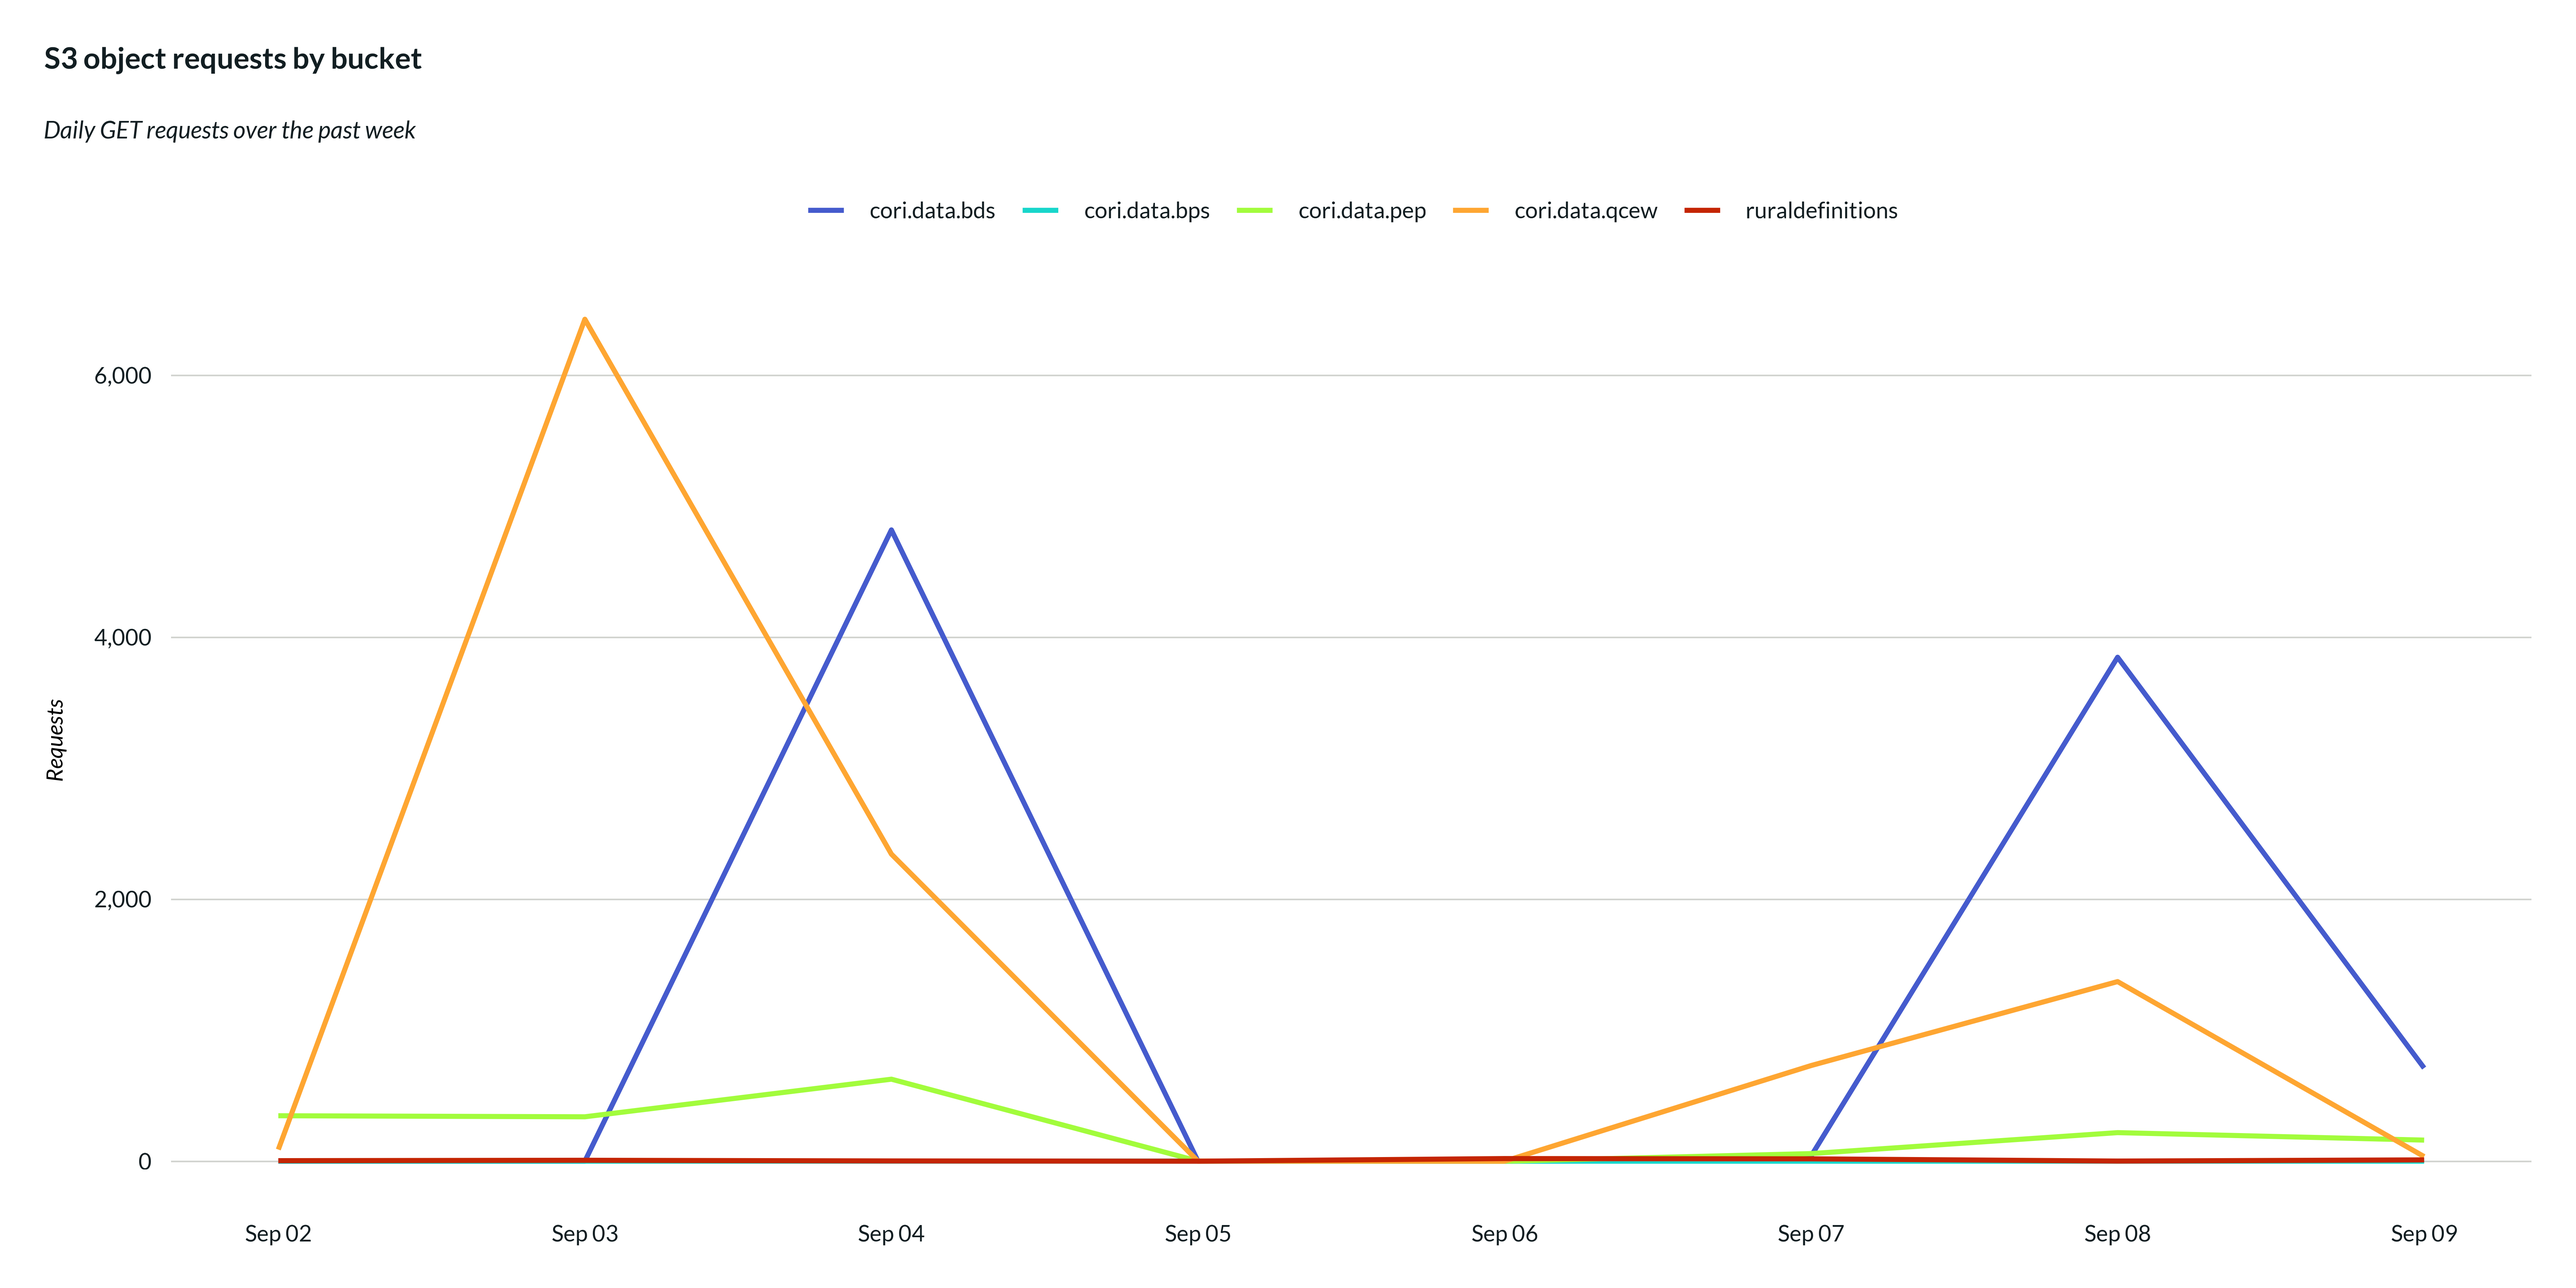
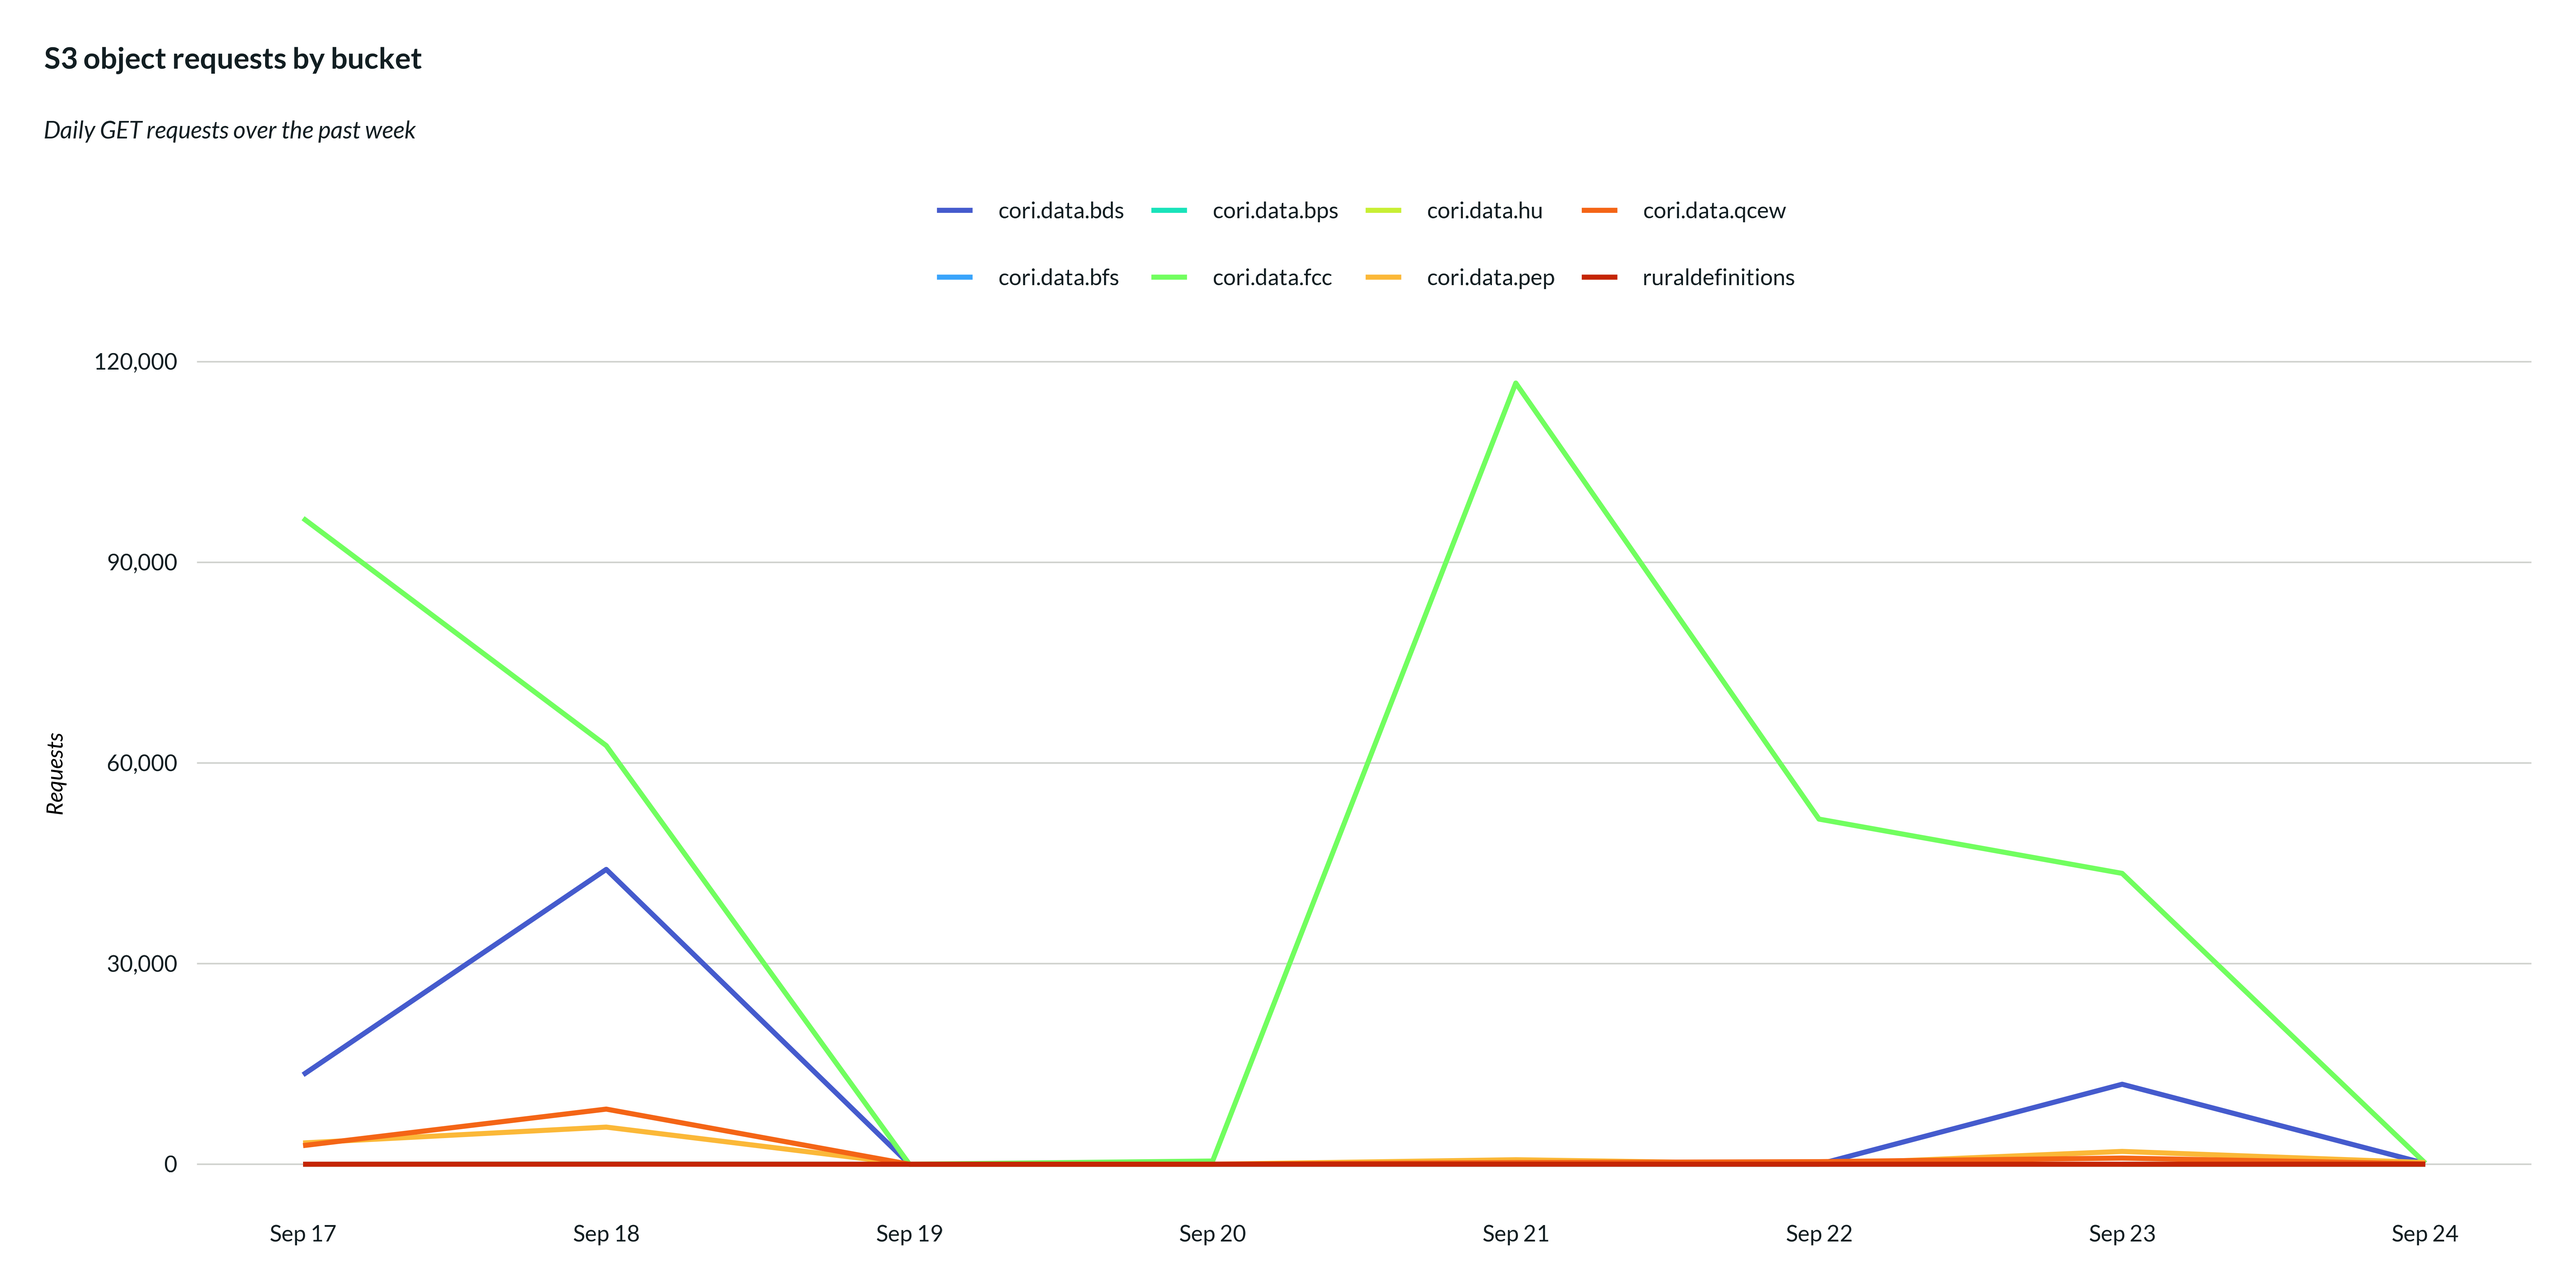
Deploying to gh-pages from @ ruralinnovation/cori.data.s3@b4f31755a063ddc0d3fc42bbaa3381c337346352 🚀

diff --git a/articles/monitoring-s3-access.html b/articles/monitoring-s3-access.html
@@ -208,14 +208,14 @@ lines into memory.</p>
 <span>  <span class="op">)</span></span>
 <span></span>
 <span><span class="fu"><a href="https://pillar.r-lib.org/reference/glimpse.html" class="external-link">glimpse</a></span><span class="op">(</span><span class="va">activity</span><span class="op">)</span></span>
-<span><span class="co">#&gt; Rows: 79</span></span>
+<span><span class="co">#&gt; Rows: 86</span></span>
 <span><span class="co">#&gt; Columns: 6</span></span>
 <span><span class="co">#&gt; $ bucket      <span style="color: #949494; font-style: italic;">&lt;chr&gt;</span> "cori.data.bds"<span style="color: #949494;">, </span>"cori.data.bds"<span style="color: #949494;">, </span>"cori.data.bds"<span style="color: #949494;">, </span>"cori.d…</span></span>
-<span><span class="co">#&gt; $ day         <span style="color: #949494; font-style: italic;">&lt;date&gt;</span> 2026-09-02<span style="color: #949494;">, </span>2026-09-03<span style="color: #949494;">, </span>2026-09-04<span style="color: #949494;">, </span>2026-09-04<span style="color: #949494;">, </span>2026-09-0…</span></span>
-<span><span class="co">#&gt; $ caller_type <span style="color: #949494; font-style: italic;">&lt;chr&gt;</span> "local"<span style="color: #949494;">, </span>"local"<span style="color: #949494;">, </span>"local"<span style="color: #949494;">, </span>"anonymous"<span style="color: #949494;">, </span>"local"<span style="color: #949494;">, </span>"local"<span style="color: #949494;">, </span>…</span></span>
+<span><span class="co">#&gt; $ day         <span style="color: #949494; font-style: italic;">&lt;date&gt;</span> 2026-09-17<span style="color: #949494;">, </span>2026-09-17<span style="color: #949494;">, </span>2026-09-18<span style="color: #949494;">, </span>2026-09-18<span style="color: #949494;">, </span>2026-09-1…</span></span>
+<span><span class="co">#&gt; $ caller_type <span style="color: #949494; font-style: italic;">&lt;chr&gt;</span> "local"<span style="color: #949494;">, </span>"anonymous"<span style="color: #949494;">, </span>"local"<span style="color: #949494;">, </span>"anonymous"<span style="color: #949494;">, </span>"local"<span style="color: #949494;">, </span>"loca…</span></span>
 <span><span class="co">#&gt; $ caller_id   <span style="color: #949494; font-style: italic;">&lt;chr&gt;</span> <span style="color: #BB0000;">NA</span><span style="color: #949494;">, </span><span style="color: #BB0000;">NA</span><span style="color: #949494;">, </span><span style="color: #BB0000;">NA</span><span style="color: #949494;">, </span><span style="color: #BB0000;">NA</span><span style="color: #949494;">, </span><span style="color: #BB0000;">NA</span><span style="color: #949494;">, </span><span style="color: #BB0000;">NA</span><span style="color: #949494;">, </span><span style="color: #BB0000;">NA</span><span style="color: #949494;">, </span><span style="color: #BB0000;">NA</span><span style="color: #949494;">, </span><span style="color: #BB0000;">NA</span><span style="color: #949494;">, </span><span style="color: #BB0000;">NA</span><span style="color: #949494;">, </span><span style="color: #BB0000;">NA</span><span style="color: #949494;">, </span><span style="color: #BB0000;">NA</span><span style="color: #949494;">, </span><span style="color: #BB0000;">NA</span><span style="color: #949494;">, </span><span style="color: #BB0000;">NA</span><span style="color: #949494;">, </span><span style="color: #BB0000;">NA</span>…</span></span>
-<span><span class="co">#&gt; $ requests    <span style="color: #949494; font-style: italic;">&lt;dbl&gt;</span> 2<span style="color: #949494;">, </span>2<span style="color: #949494;">, </span>4761<span style="color: #949494;">, </span>60<span style="color: #949494;">, </span>3<span style="color: #949494;">, </span>2<span style="color: #949494;">, </span>37<span style="color: #949494;">, </span>4<span style="color: #949494;">, </span>3847<span style="color: #949494;">, </span>2<span style="color: #949494;">, </span>707<span style="color: #949494;">, </span>6<span style="color: #949494;">, </span>2<span style="color: #949494;">, </span>2<span style="color: #949494;">, </span>2<span style="color: #949494;">, </span>3<span style="color: #949494;">, </span>…</span></span>
-<span><span class="co">#&gt; $ bytes       <span style="color: #949494; font-style: italic;">&lt;dbl&gt;</span> 736<span style="color: #949494;">, </span>736<span style="color: #949494;">, </span>745036330<span style="color: #949494;">, </span>780<span style="color: #949494;">, </span>1104<span style="color: #949494;">, </span>716<span style="color: #949494;">, </span>19877407<span style="color: #949494;">, </span>588<span style="color: #949494;">, </span>390612…</span></span></code></pre></div>
+<span><span class="co">#&gt; $ requests    <span style="color: #949494; font-style: italic;">&lt;dbl&gt;</span> 13324<span style="color: #949494;">, </span>53<span style="color: #949494;">, </span>43906<span style="color: #949494;">, </span>182<span style="color: #949494;">, </span>2<span style="color: #949494;">, </span>2<span style="color: #949494;">, </span>2<span style="color: #949494;">, </span>2<span style="color: #949494;">, </span>2<span style="color: #949494;">, </span>11961<span style="color: #949494;">, </span>1<span style="color: #949494;">, </span>110<span style="color: #949494;">, </span>4<span style="color: #949494;">, </span>2<span style="color: #949494;">,</span>…</span></span>
+<span><span class="co">#&gt; $ bytes       <span style="color: #949494; font-style: italic;">&lt;dbl&gt;</span> 1246958222<span style="color: #949494;">, </span>689<span style="color: #949494;">, </span>3811454918<span style="color: #949494;">, </span>3397474<span style="color: #949494;">, </span>716<span style="color: #949494;">, </span>716<span style="color: #949494;">, </span>736<span style="color: #949494;">, </span>582<span style="color: #949494;">, </span>…</span></span></code></pre></div>
 <p>One row per bucket, day, caller type, and caller ID. Everything below
 is <code>dplyr</code> on that frame — the expensive work is already
 done.</p>
@@ -227,7 +227,7 @@ done.</p>
 <code class="sourceCode R"><span></span>
 <span><span class="va">activity</span> <span class="op">|&gt;</span></span>
 <span>  <span class="fu"><a href="https://dplyr.tidyverse.org/reference/filter.html" class="external-link">filter</a></span><span class="op">(</span><span class="va">day</span> <span class="op">&gt;=</span> <span class="fu"><a href="https://rdrr.io/r/base/Sys.time.html" class="external-link">Sys.Date</a></span><span class="op">(</span><span class="op">)</span> <span class="op">-</span> <span class="fl">7</span><span class="op">)</span> <span class="op">|&gt;</span></span>
-<span>  <span class="fu"><a href="https://dplyr.tidyverse.org/reference/filter.html" class="external-link">filter</a></span><span class="op">(</span><span class="va">bucket</span> <span class="op">!=</span> <span class="st">"cori.data.fcc"</span><span class="op">)</span> <span class="op">|&gt;</span></span>
+<span>  <span class="co"># filter(bucket != "cori.data.fcc") |&gt;</span></span>
 <span>  <span class="fu"><a href="https://dplyr.tidyverse.org/reference/group_by.html" class="external-link">group_by</a></span><span class="op">(</span><span class="va">bucket</span>, <span class="va">day</span><span class="op">)</span> <span class="op">|&gt;</span></span>
 <span>  <span class="fu"><a href="https://dplyr.tidyverse.org/reference/summarise.html" class="external-link">summarise</a></span><span class="op">(</span>requests <span class="op">=</span> <span class="fu"><a href="https://rdrr.io/r/base/sum.html" class="external-link">sum</a></span><span class="op">(</span><span class="va">requests</span><span class="op">)</span>, .groups <span class="op">=</span> <span class="st">"drop"</span><span class="op">)</span> <span class="op">|&gt;</span></span>
 <span>  <span class="fu"><a href="https://ggplot2.tidyverse.org/reference/ggplot.html" class="external-link">ggplot</a></span><span class="op">(</span><span class="fu"><a href="https://ggplot2.tidyverse.org/reference/aes.html" class="external-link">aes</a></span><span class="op">(</span><span class="va">day</span>, <span class="va">requests</span>, color <span class="op">=</span> <span class="va">bucket</span><span class="op">)</span><span class="op">)</span> <span class="op">+</span></span>
@@ -342,37 +342,49 @@ explicit tag.</p>
 <tbody>
 <tr class="odd">
 <td align="left">cori.data.fcc</td>
-<td align="right">473000</td>
-<td align="right">164.4</td>
+<td align="right">371756</td>
+<td align="right">127.1</td>
 <td align="right">0</td>
 </tr>
 <tr class="even">
-<td align="left">cori.data.qcew</td>
-<td align="right">11013</td>
-<td align="right">2.3</td>
-<td align="right">1</td>
+<td align="left">cori.data.bds</td>
+<td align="right">69547</td>
+<td align="right">6.2</td>
+<td align="right">0</td>
 </tr>
 <tr class="odd">
-<td align="left">cori.data.bds</td>
-<td align="right">9433</td>
-<td align="right">1.2</td>
-<td align="right">0</td>
+<td align="left">cori.data.qcew</td>
+<td align="right">12651</td>
+<td align="right">1.8</td>
+<td align="right">1</td>
 </tr>
 <tr class="even">
 <td align="left">cori.data.pep</td>
-<td align="right">1766</td>
-<td align="right">0.1</td>
+<td align="right">11591</td>
+<td align="right">0.4</td>
+<td align="right">2</td>
+</tr>
+<tr class="odd">
+<td align="left">cori.data.bps</td>
+<td align="right">41</td>
+<td align="right">0.0</td>
+<td align="right">1</td>
+</tr>
+<tr class="even">
+<td align="left">ruraldefinitions</td>
+<td align="right">40</td>
+<td align="right">0.0</td>
 <td align="right">0</td>
 </tr>
 <tr class="odd">
-<td align="left">ruraldefinitions</td>
-<td align="right">78</td>
-<td align="right">0.1</td>
+<td align="left">cori.data.bfs</td>
+<td align="right">6</td>
+<td align="right">0.0</td>
 <td align="right">0</td>
 </tr>
 <tr class="even">
-<td align="left">cori.data.bps</td>
-<td align="right">17</td>
+<td align="left">cori.data.hu</td>
+<td align="right">5</td>
 <td align="right">0.0</td>
 <td align="right">0</td>
 </tr>

diff --git a/articles/monitoring-s3-access.md b/articles/monitoring-s3-access.md
@@ -150,14 +150,14 @@ activity <- activity |>
   )
 
 glimpse(activity)
-#> Rows: 79
+#> Rows: 86
 #> Columns: 6
 #> $ bucket      <chr> "cori.data.bds", "cori.data.bds", "cori.data.bds", "cori.d…
-#> $ day         <date> 2026-09-02, 2026-09-03, 2026-09-04, 2026-09-04, 2026-09-0…
-#> $ caller_type <chr> "local", "local", "local", "anonymous", "local", "local", …
+#> $ day         <date> 2026-09-17, 2026-09-17, 2026-09-18, 2026-09-18, 2026-09-1…
+#> $ caller_type <chr> "local", "anonymous", "local", "anonymous", "local", "loca…
 #> $ caller_id   <chr> NA, NA, NA, NA, NA, NA, NA, NA, NA, NA, NA, NA, NA, NA, NA…
-#> $ requests    <dbl> 2, 2, 4761, 60, 3, 2, 37, 4, 3847, 2, 707, 6, 2, 2, 2, 3, …
-#> $ bytes       <dbl> 736, 736, 745036330, 780, 1104, 716, 19877407, 588, 390612…
+#> $ requests    <dbl> 13324, 53, 43906, 182, 2, 2, 2, 2, 2, 11961, 1, 110, 4, 2,…
+#> $ bytes       <dbl> 1246958222, 689, 3811454918, 3397474, 716, 716, 736, 582, …
 ```
 
 One row per bucket, day, caller type, and caller ID. Everything below is
@@ -170,7 +170,7 @@ One row per bucket, day, caller type, and caller ID. Everything below is
 
 activity |>
   filter(day >= Sys.Date() - 7) |>
-  filter(bucket != "cori.data.fcc") |>
+  # filter(bucket != "cori.data.fcc") |>
   group_by(bucket, day) |>
   summarise(requests = sum(requests), .groups = "drop") |>
   ggplot(aes(day, requests, color = bucket)) +
@@ -285,12 +285,14 @@ activity |>
 
 | bucket           | requests |    gb | caller_ids |
 |:-----------------|---------:|------:|-----------:|
-| cori.data.fcc    |   473000 | 164.4 |          0 |
-| cori.data.qcew   |    11013 |   2.3 |          1 |
-| cori.data.bds    |     9433 |   1.2 |          0 |
-| cori.data.pep    |     1766 |   0.1 |          0 |
-| ruraldefinitions |       78 |   0.1 |          0 |
-| cori.data.bps    |       17 |   0.0 |          0 |
+| cori.data.fcc    |   371756 | 127.1 |          0 |
+| cori.data.bds    |    69547 |   6.2 |          0 |
+| cori.data.qcew   |    12651 |   1.8 |          1 |
+| cori.data.pep    |    11591 |   0.4 |          2 |
+| cori.data.bps    |       41 |   0.0 |          1 |
+| ruraldefinitions |       40 |   0.0 |          0 |
+| cori.data.bfs    |        6 |   0.0 |          0 |
+| cori.data.hu     |        5 |   0.0 |          0 |
 
 Swap the [`filter()`](https://dplyr.tidyverse.org/reference/filter.html)
 for `day >= Sys.Date() - 90` to get the trailing ninety days instead.
